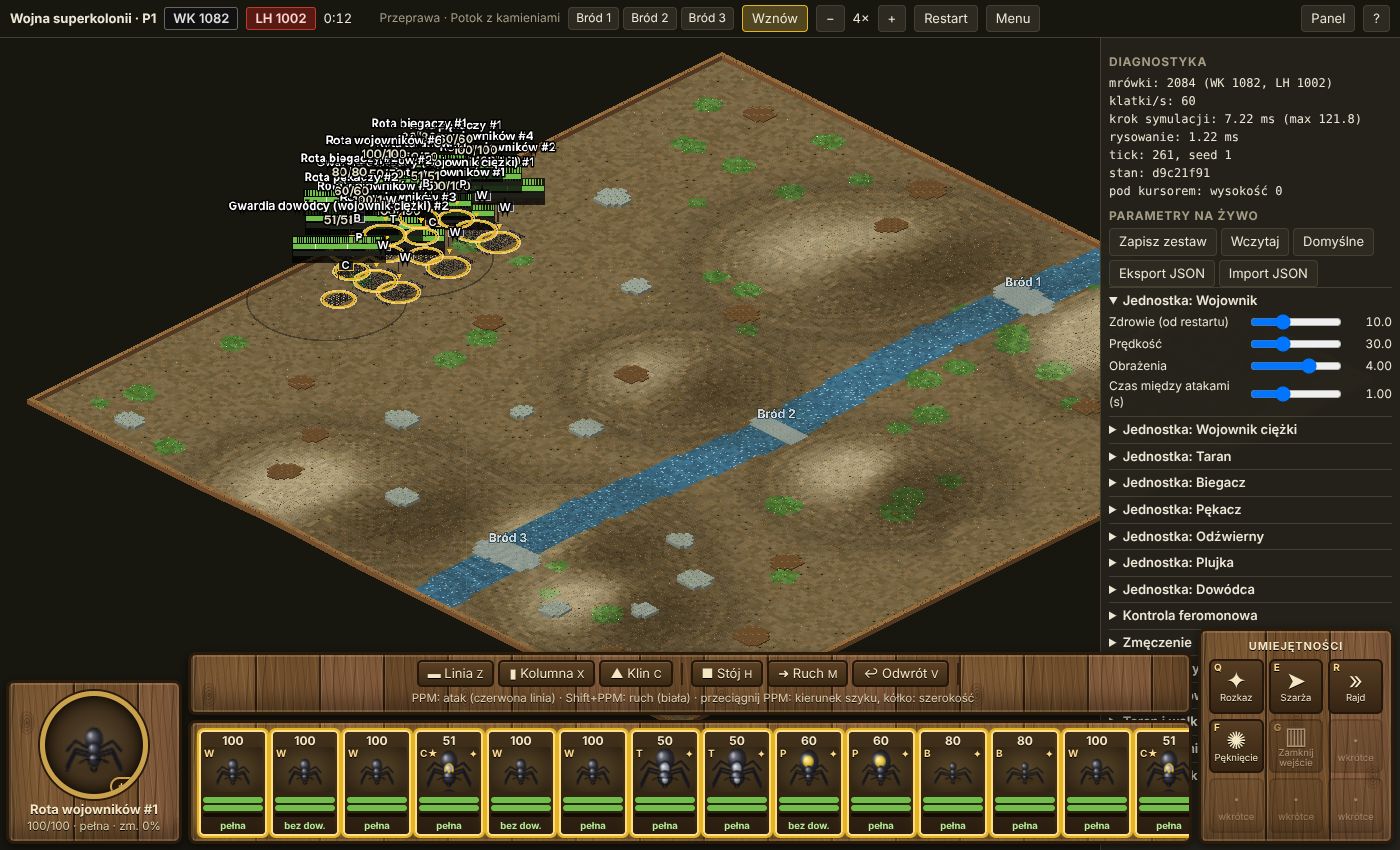
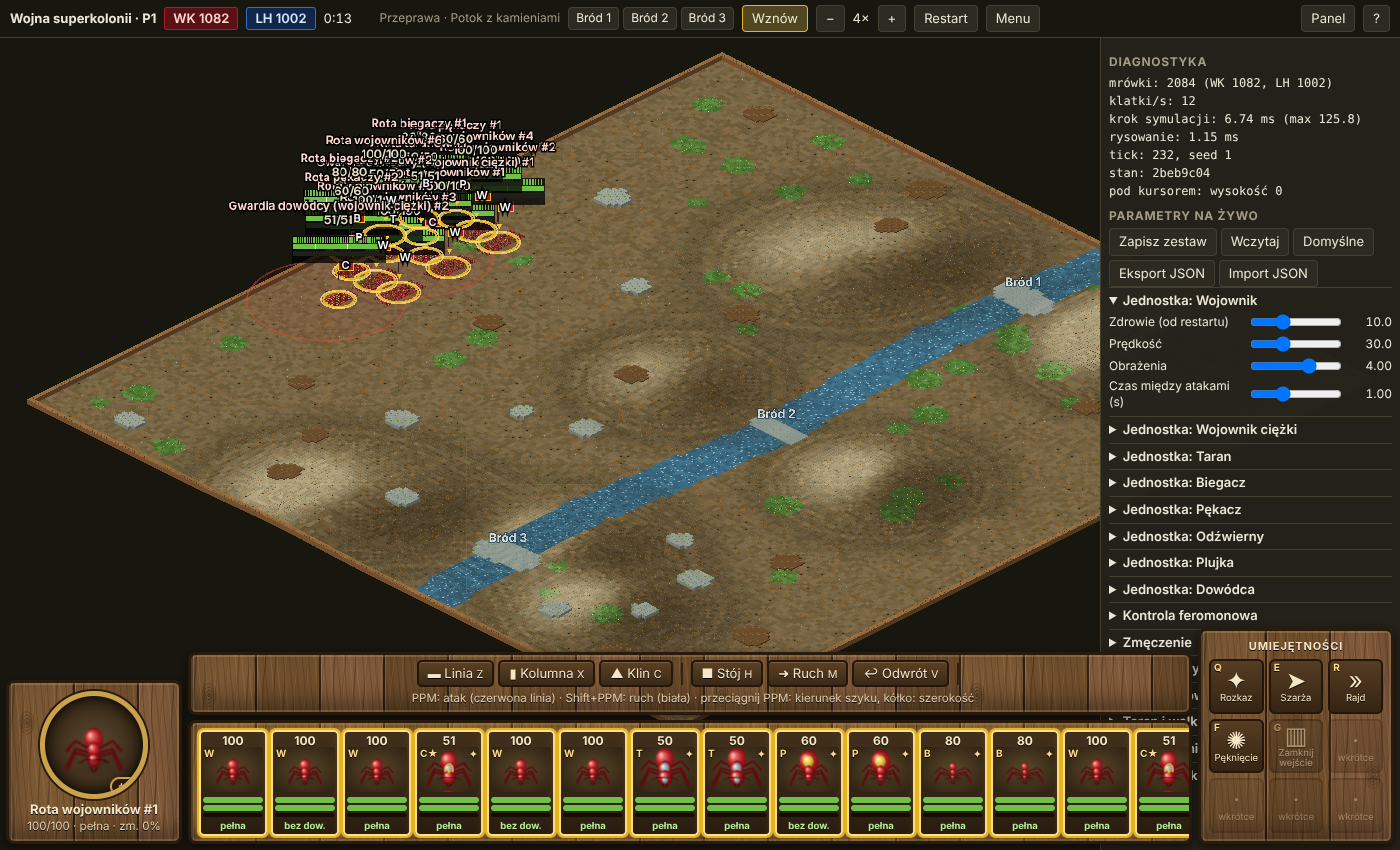
Kolory stron: Wielka Kolonia czerwona (styl ZSRR, złote wykończenie), Lake Hodges niebieski
Claude-Session: https://claude.ai/code/session_015bWVywXDmmptfndPZFffbj

diff --git a/prototypy/p1-bitwa.html b/prototypy/p1-bitwa.html
@@ -7,7 +7,7 @@
 <style>
 :root{
   --bg:#17160f;--panel:#23211a;--panel2:#2d2a21;--line:#443f31;--text:#ece6d6;--dim:#a39b84;
-  --wk:#222;--wkl:#8b8b8b;--lh:#c0392b;--lhl:#ef6a58;--ok:#6fbf4a;--warn:#e6b422;--bad:#e0483a;--acc:#e6b422;
+  --wk:#b01c22;--wkl:#ef6a58;--lh:#2f6fc4;--lhl:#7fb2f0;--ok:#6fbf4a;--warn:#e6b422;--bad:#e0483a;--acc:#e6b422;
 }
 *{box-sizing:border-box}
 html,body{margin:0;height:100%;overflow:hidden;background:var(--bg);color:var(--text);font:13px/1.35 system-ui,Segoe UI,Roboto,sans-serif}
@@ -17,11 +17,11 @@ button:hover{border-color:var(--acc)}button.on{background:#51461f;border-color:v
 #stage canvas{display:block;width:100%;height:100%}
 #topbar{position:absolute;left:0;right:0;top:0;height:38px;display:flex;align-items:center;gap:8px;padding:0 10px;background:rgba(23,22,15,.88);border-bottom:1px solid var(--line);z-index:5}
 #topbar .grow{flex:1}
-.cnt{font-weight:600;padding:2px 8px;border-radius:3px}.cnt.wk{background:#111;color:#ddd;border:1px solid #666}.cnt.lh{background:#5a1a14;color:#ffd7cf;border:1px solid #c0392b}
+.cnt{font-weight:600;padding:2px 8px;border-radius:3px}.cnt.wk{background:#5a1014;color:#ffd7cf;border:1px solid #b01c22}.cnt.lh{background:#10264a;color:#d4e6ff;border:1px solid #2f6fc4}
 #clock{font-variant-numeric:tabular-nums;min-width:48px}
 #ticker{position:absolute;left:10px;top:46px;width:min(460px,60vw);z-index:4;pointer-events:none}
 #ticker div{background:rgba(23,22,15,.82);border-left:3px solid var(--acc);margin-bottom:3px;padding:3px 7px;font-size:12px}
-#ticker div.wk{border-color:#aaa}#ticker div.lh{border-color:var(--lhl)}
+#ticker div.wk{border-color:var(--wkl)}#ticker div.lh{border-color:var(--lhl)}
 #bottom{position:absolute;left:0;right:0;bottom:0;z-index:5;display:flex;align-items:flex-end;gap:6px;padding:0 6px 6px;pointer-events:none}
 #bottom>*{pointer-events:auto}
 /* drewniane tło interfejsu: tekstura desek generowana w JS i podstawiana jako --wood */
@@ -131,8 +131,8 @@ table.rep{border-collapse:collapse;width:100%;margin:6px 0;font-size:12.5px}tabl
     <h1>Wojna superkolonii: prototyp bitwy</h1>
     <p>Wybierz scenariusz i mapę. Dowodzisz rotami, resztą zajmuje się AI. Zasady: docs/Dokument_0.5.pdf, sekcja 15.2.</p>
     <div class="choice">
-      <button id="cWK" class="on">Wielka Kolonia (czarna)<small>Masa, centralne dowodzenie, tarany, biegacze, pękacze. W oblężeniu i przeprawie atakuje.</small></button>
-      <button id="cLH">Lake Hodges (czerwona)<small>Odźwierni, plujki z kwasem, wytrzymałe roty. W oblężeniu i przeprawie broni.</small></button>
+      <button id="cWK" class="on">Wielka Kolonia (czerwona)<small>Masa, centralne dowodzenie, tarany, biegacze, pękacze. W oblężeniu i przeprawie atakuje.</small></button>
+      <button id="cLH">Lake Hodges (niebieska)<small>Odźwierni, plujki z kwasem, wytrzymałe roty. W oblężeniu i przeprawie broni.</small></button>
     </div>
     <div class="row" style="grid-template-columns:150px 1fr 50px"><span>Scenariusz</span><select id="mScen"></select><span></span></div>
     <p id="mScenDesc" class="mapdesc"></p>
@@ -2093,8 +2093,8 @@ if (typeof module !== 'undefined') module.exports = Sim;
   };
 
   const PAL = {
-    WK: { base: '#2b2b32', hi: '#8a8a98', dark: '#0b0b0f', leg: '#16161b', trim: '#b8b8c4' },
-    LH: { base: '#c4352c', hi: '#ffa088', dark: '#560c08', leg: '#74140f', trim: '#f2c27a' }
+    WK: { base: '#b01c22', hi: '#ff8f84', dark: '#4a0508', leg: '#5e0c10', trim: '#f2c230' },   // czerwień w stylu ZSRR ze złotem
+    LH: { base: '#2f6fc4', hi: '#9cc8ff', dark: '#0c2a5a', leg: '#123a78', trim: '#bcd7ff' }
   };
   const DIRS = 16, CELLW = 64, CELLH = 48, AX = 32, AY = 31, ATLAS_SCALE = 0.42;
   // wielkość ciała (mnożnik rozmiaru malowania) i wygląd per rodzaj
@@ -2283,7 +2283,7 @@ if (typeof module !== 'undefined') module.exports = Sim;
     sim.comps.forEach((c) => {
       let dom = 'dowodca', dn = 0; for (const k in c.startBy) if (k !== 'dowodca' && c.startBy[k] > dn) { dn = c.startBy[k]; dom = k; }
       c._kind = sim.kinds[sim.ti[dom]]; c._elite = sim.kinds[sim.ti[dom]] !== dom; c._domName = dom;
-      c._label = mk(c.name + ' #' + c.num, 13, c.side === 0 ? 0xffffff : 0xffd7cf); c._cnt = mk('', 13, 0xe6e0c8); c._flag = mk(GLYPH[c._kind] || '?', 11, 0xffffff);
+      c._label = mk(c.name + ' #' + c.num, 13, c.side === 0 ? 0xffd7cf : 0xd4e6ff); c._cnt = mk('', 13, 0xe6e0c8); c._flag = mk(GLYPH[c._kind] || '?', 11, 0xffffff);
       c._flag.anchor.set(0.5, 0.5);
     });
   }
@@ -2669,7 +2669,7 @@ if (typeof module !== 'undefined') module.exports = Sim;
   }
 
   // ---------- rysowanie klatki ----------
-  const HEX = { WK: 0x222222, LH: 0xc0392b };
+  const HEX = { WK: 0xb01c22, LH: 0x2f6fc4 };
   function render() {
     const sim = S.sim; if (!sim) return;
     const p = antsPC.children, cnt = sim.count, K = DIRS / (Math.PI * 2), k = 1 / cam.z, me = SIDES.indexOf(S.side), showAll = S.observe;
@@ -2686,7 +2686,7 @@ if (typeof module !== 'undefined') module.exports = Sim;
     const ell = (g, x, y, R) => g.drawEllipse(ISO.sx(x, y), ISO.sy(x, y), ISO.rx(R), ISO.ry(R));
     // zasięg dowódców na ziemi
     for (const s of SIDES) for (let i = 0; i < cnt; i++) if (sim.alive[i] && sim.kinds[sim.type[i]] === 'dowodca' && SIDES[sim.side[i]] === s && seenByMe(i)) {
-      const R = sim.defs.scenario.sides[s].auraR; gGround.beginFill(HEX[s], 0.07).lineStyle(1.5 * k, s === 'WK' ? 0x111111 : 0xe0483a, 0.45); ell(gGround, sim.x[i], sim.y[i], R); gGround.endFill();
+      const R = sim.defs.scenario.sides[s].auraR; gGround.beginFill(HEX[s], 0.07).lineStyle(1.5 * k, s === 'WK' ? 0xe0483a : 0x5a9be8, 0.45); ell(gGround, sim.x[i], sim.y[i], R); gGround.endFill();
     }
     for (const c of sim.comps) {
       const show = c.alive > 0 && (showAll || c.side === me || sim.compVisible(c, me)), sel = S.selected.has(c.id), info = show && (sel || S.hover === c.id);
@@ -2694,9 +2694,9 @@ if (typeof module !== 'undefined') module.exports = Sim;
       if (!show) continue;
       const sx = ISO.sx(c.ax, c.ay), sy = ISO.sy(c.ax, c.ay), up = Math.sqrt(c.alive) * 2.2 + 16 * k;
       // chorągiew: zawsze widoczna, bez liczb
-      const fy = sy - up, fw = 15 * k, fh = 10 * k, col = c.side === 0 ? 0x2b2b32 : 0xc4352c;
+      const fy = sy - up, fw = 15 * k, fh = 10 * k, col = c.side === 0 ? 0xb01c22 : 0x2f6fc4;
       gOver.lineStyle(1.4 * k, 0x2a2018, 1).moveTo(sx, fy).lineTo(sx, fy - 20 * k);
-      gOver.lineStyle(1 * k, c._elite ? 0xf2c230 : (c.side === 0 ? 0xb8b8c4 : 0xf2c27a), 1).beginFill(col, 1).drawRect(sx, fy - 20 * k, fw, fh).endFill();
+      gOver.lineStyle(1 * k, c._elite ? 0xf2c230 : (c.side === 0 ? 0xf2c230 : 0xbcd7ff), 1).beginFill(col, 1).drawRect(sx, fy - 20 * k, fw, fh).endFill();
       c._flag.scale.set(k); c._flag.position.set(sx + fw / 2, fy - 20 * k + fh / 2);
       if (info) {
         // panel informacji: nazwa, liczebność (aktualnie/max), pasek zdrowia z podziałem na mrówki, morale i zmęczenie

diff --git a/docs/projekt-bitwy.md b/docs/projekt-bitwy.md
@@ -7,7 +7,7 @@ Dokument opisuje, jak działa bitwa w prototypie `prototypy/p1-bitwa.html`, i je
 **Skala i czytelność**
 1. Rój jest rzadki. Odstęp w szyku to 11 jednostek świata, ciało zwykłej mrówki ma promień 4. Na polu jest ok. 1900 mrówek w 23 rotach. To świadome zejście poniżej widełek 2000-4000 z sekcji 15.2 dokumentu: na prośbę użytkownika woleliśmy widzieć pojedyncze mrówki i więcej rot niż gęsty tłum. Test wydajności 10 tys. mrówek należy do etapu T, nie do P1.
 2. Widok jest izometryczny 2:1 (rzut: `sx = (x - y) * 0.5 * S`, `sy = (x + y) * 0.25 * S`, S = 2). Symulacja zna tylko płaszczyznę (x, y); izometria to wyłącznie prezentacja.
-3. Sprite'y są malowane w wysokiej rozdzielczości (atlas 2,4 razy większy niż na ekranie), 16 kierunków, cień rzucany w prawo-dół. Wielka Kolonia jest czarna, Lake Hodges czerwony; typy różnią się sylwetką.
+3. Sprite'y są malowane w wysokiej rozdzielczości (atlas 2,4 razy większy niż na ekranie), 16 kierunków, cień rzucany w prawo-dół. Wielka Kolonia jest czerwona (w stylu ZSRR, ze złotym wykończeniem), Lake Hodges niebieski; typy różnią się sylwetką.
 
 **Fizyka ciał**
 4. Mrówki mają ciało (okrąg o promieniu zależnym od typu) i masę. W walce nie mogą się przenikać ani stackować: tylny szereg czeka, aż przed nim zrobi się miejsce (poległy kolega, rozciągnięty szyk).
